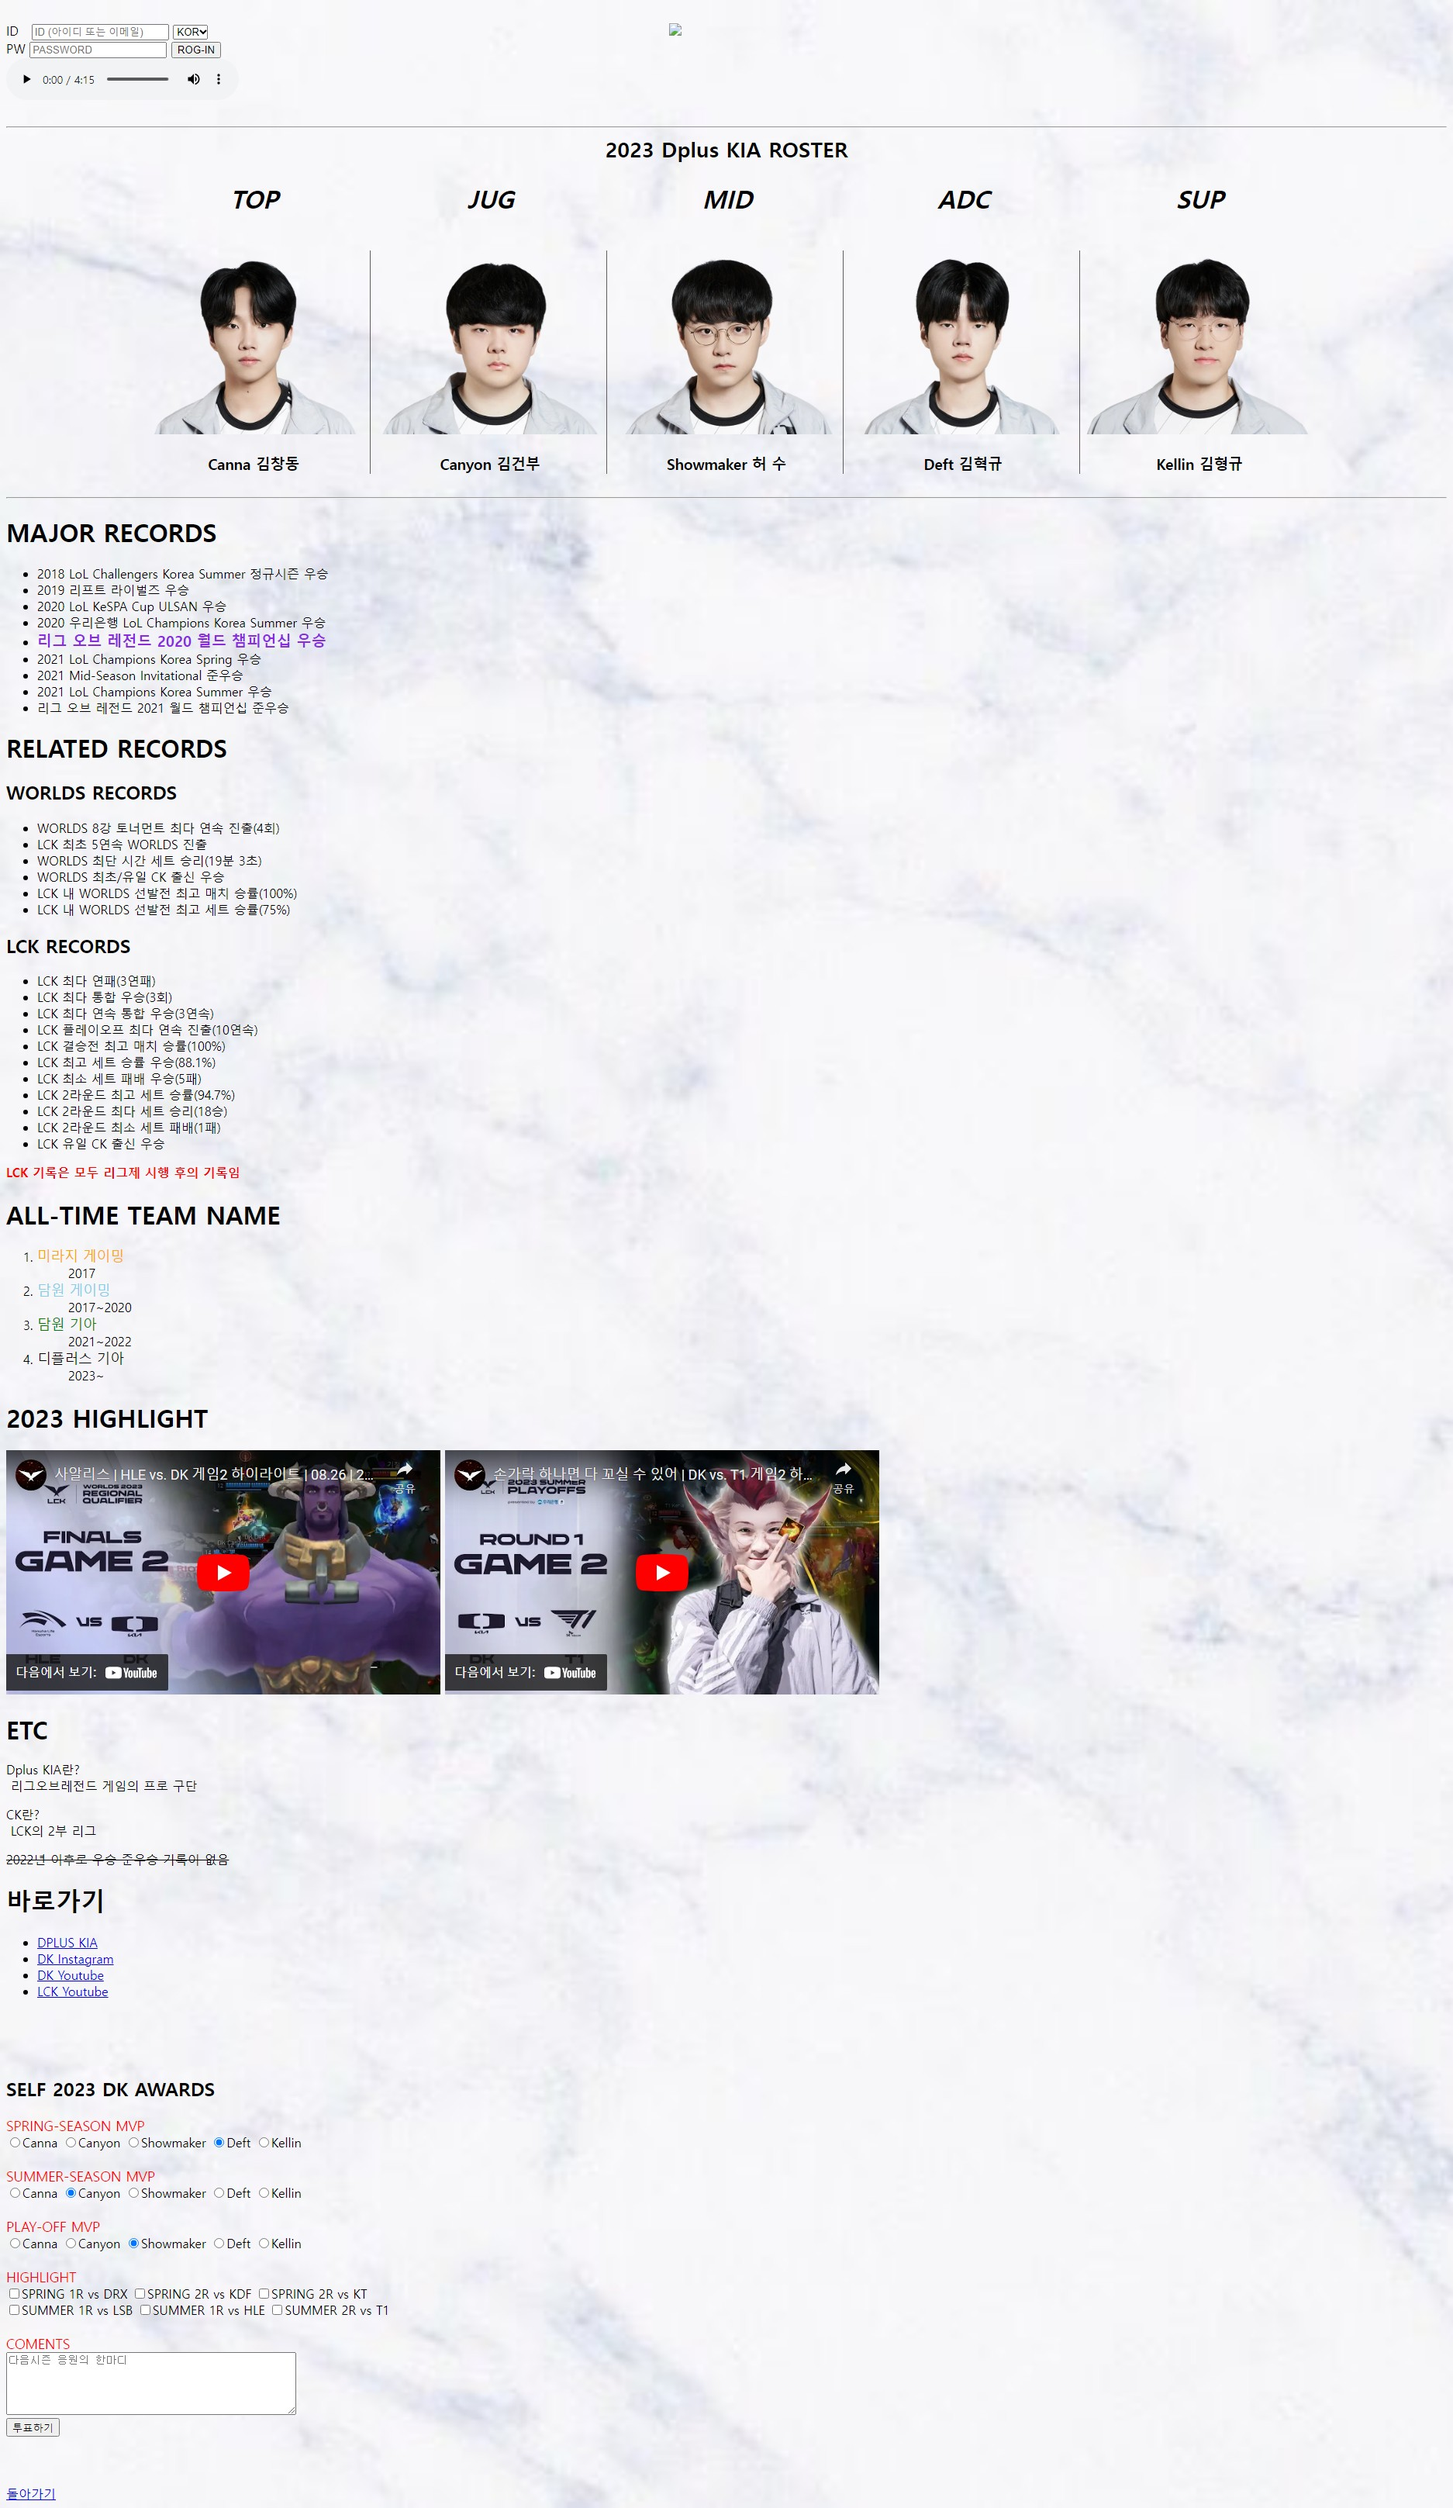
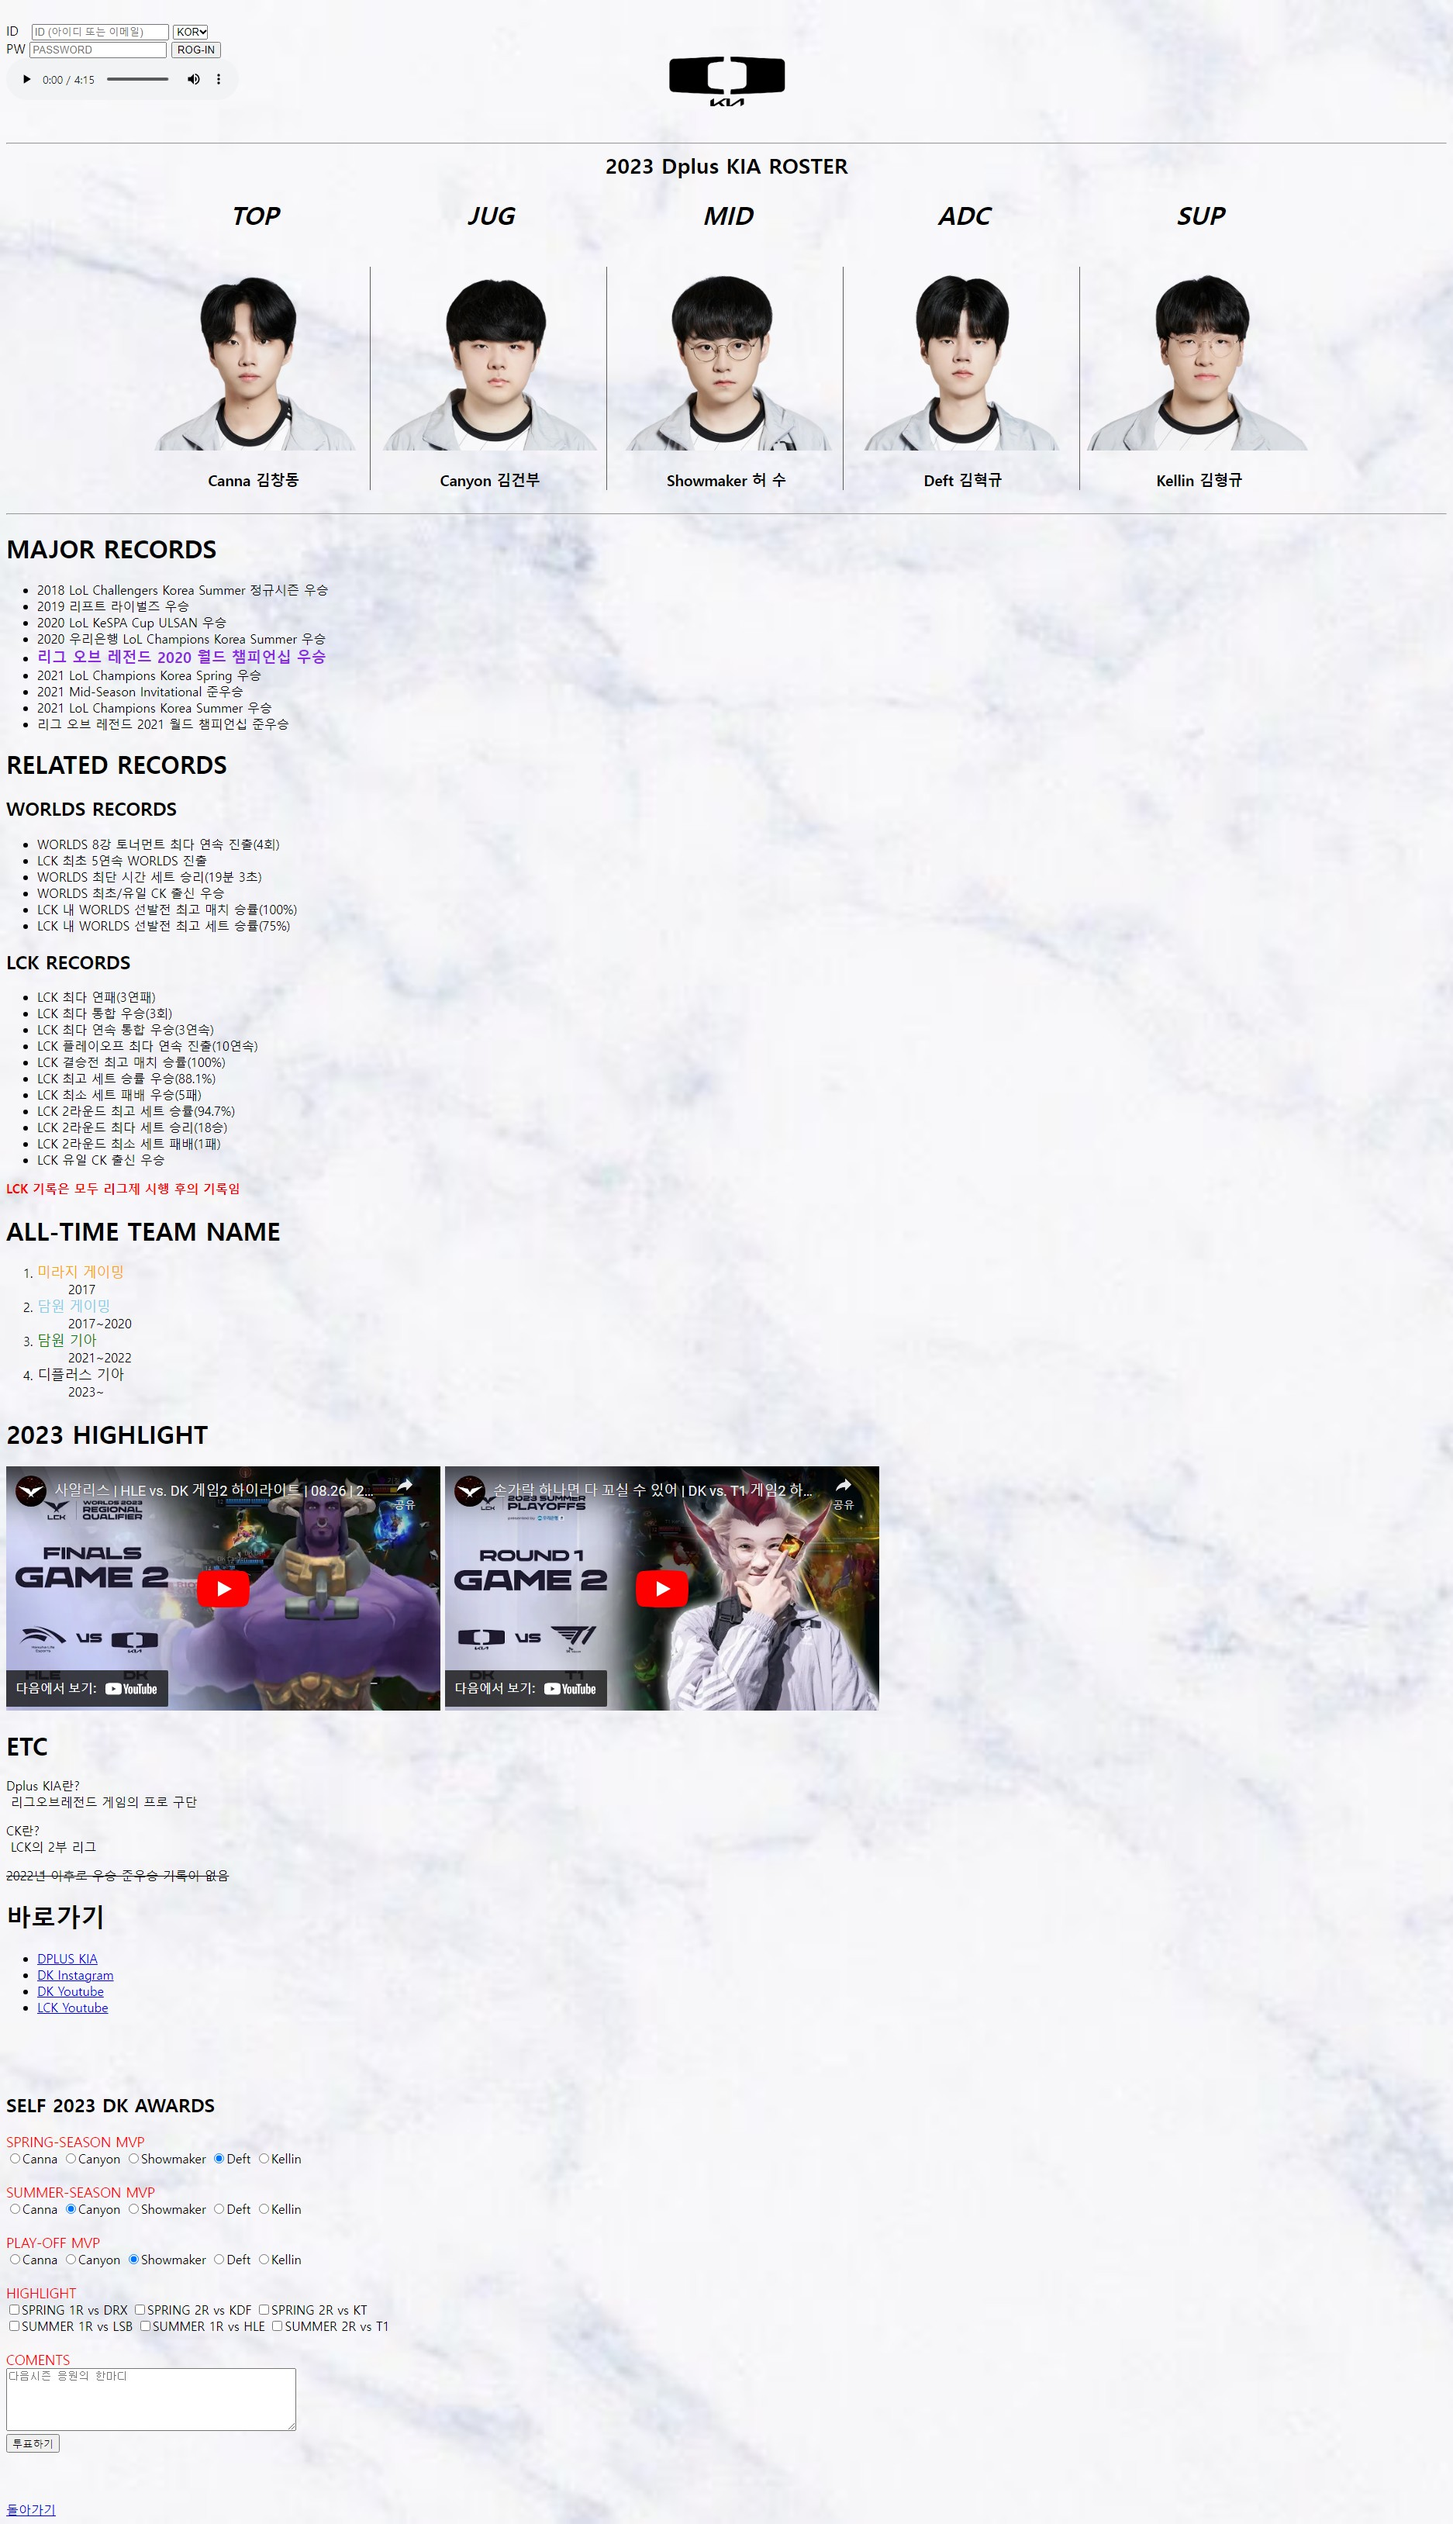
sdfsdf

diff --git a/sub.html b/sub.html
@@ -49,7 +49,7 @@
             </div>
         </header>
 
-        <br /><br /><br /><br /><br /><br />    
+        <br /><br /><br /><br /><br /><br /><br />    
         <hr />  
         <table summary="2023 Dplus KIA Roster">
             <caption><span style="font-size:1.7em; color:black;"><strong>2023 Dplus KIA ROSTER</strong></span></caption>
@@ -106,6 +106,7 @@
             <li>2021 LoL Champions Korea Summer 우승</li>
             <li>리그 오브 레전드 2021 월드 챔피언십 준우승</li>
         </ul>
+        <hr />
 
         <section>
             <h1><span style = " font-size:1.3em;  color:black; ">RELATED RECORDS</span></h1>
@@ -138,6 +139,7 @@
                 <p><strong><span style = " color:red; ">LCK 기록은 모두 리그제 시행 후의 기록임</span></strong></p>
             </section>
         </section>
+        <hr />
 
         <h1><span style = " color:black; ">ALL-TIME TEAM NAME</span></h1>
         <ol>
@@ -150,10 +152,12 @@
             <li><dt><span style = " font-size:1.1em;  color:black; ">디플러스 기아</span></dt></li>
                 <dd>2023~</dd>
         </ol>
+        <hr />
 
         <h1>2023 HIGHLIGHT</h1>
             <iframe width="560" height="315" src="https://www.youtube.com/embed/jcdozU-qZew?si=J3eib25Blv79-xeS" title="YouTube video player" frameborder="0" allow="accelerometer; autoplay; clipboard-write; encrypted-media; gyroscope; picture-in-picture; web-share" allowfullscreen></iframe>
             <iframe width="560" height="315" src="https://www.youtube.com/embed/ozqkSyD4Fqo?si=2E3b6jm3l9fle1_6" title="YouTube video player" frameborder="0" allow="accelerometer; autoplay; clipboard-write; encrypted-media; gyroscope; picture-in-picture; web-share" allowfullscreen></iframe>
+        <hr />
 
         <article>
             <h1><span style = " font-size:1.3em;  color:black; ">ETC</span></h1>
@@ -161,6 +165,7 @@
                 <p>CK란?<br />&nbsp;LCK의 2부 리그</p>
                 <del>2022년 이후로 우승 준우승 기록이 없음</del>
         </article>   
+        <hr />
 
         <h1>바로가기</h1>
         <nav>
@@ -170,7 +175,8 @@
                 <li><a href="https://www.youtube.com/@DplusKIA_LOL" target="_blank">DK Youtube</a></li>    
                 <li><a href="https://www.youtube.com/@LCK" target="_blank">LCK Youtube</a></li>
             </ul>
-        </nav>             
+        </nav>
+        <hr />             
         <br /><br /><br />        
 
         <aside>
